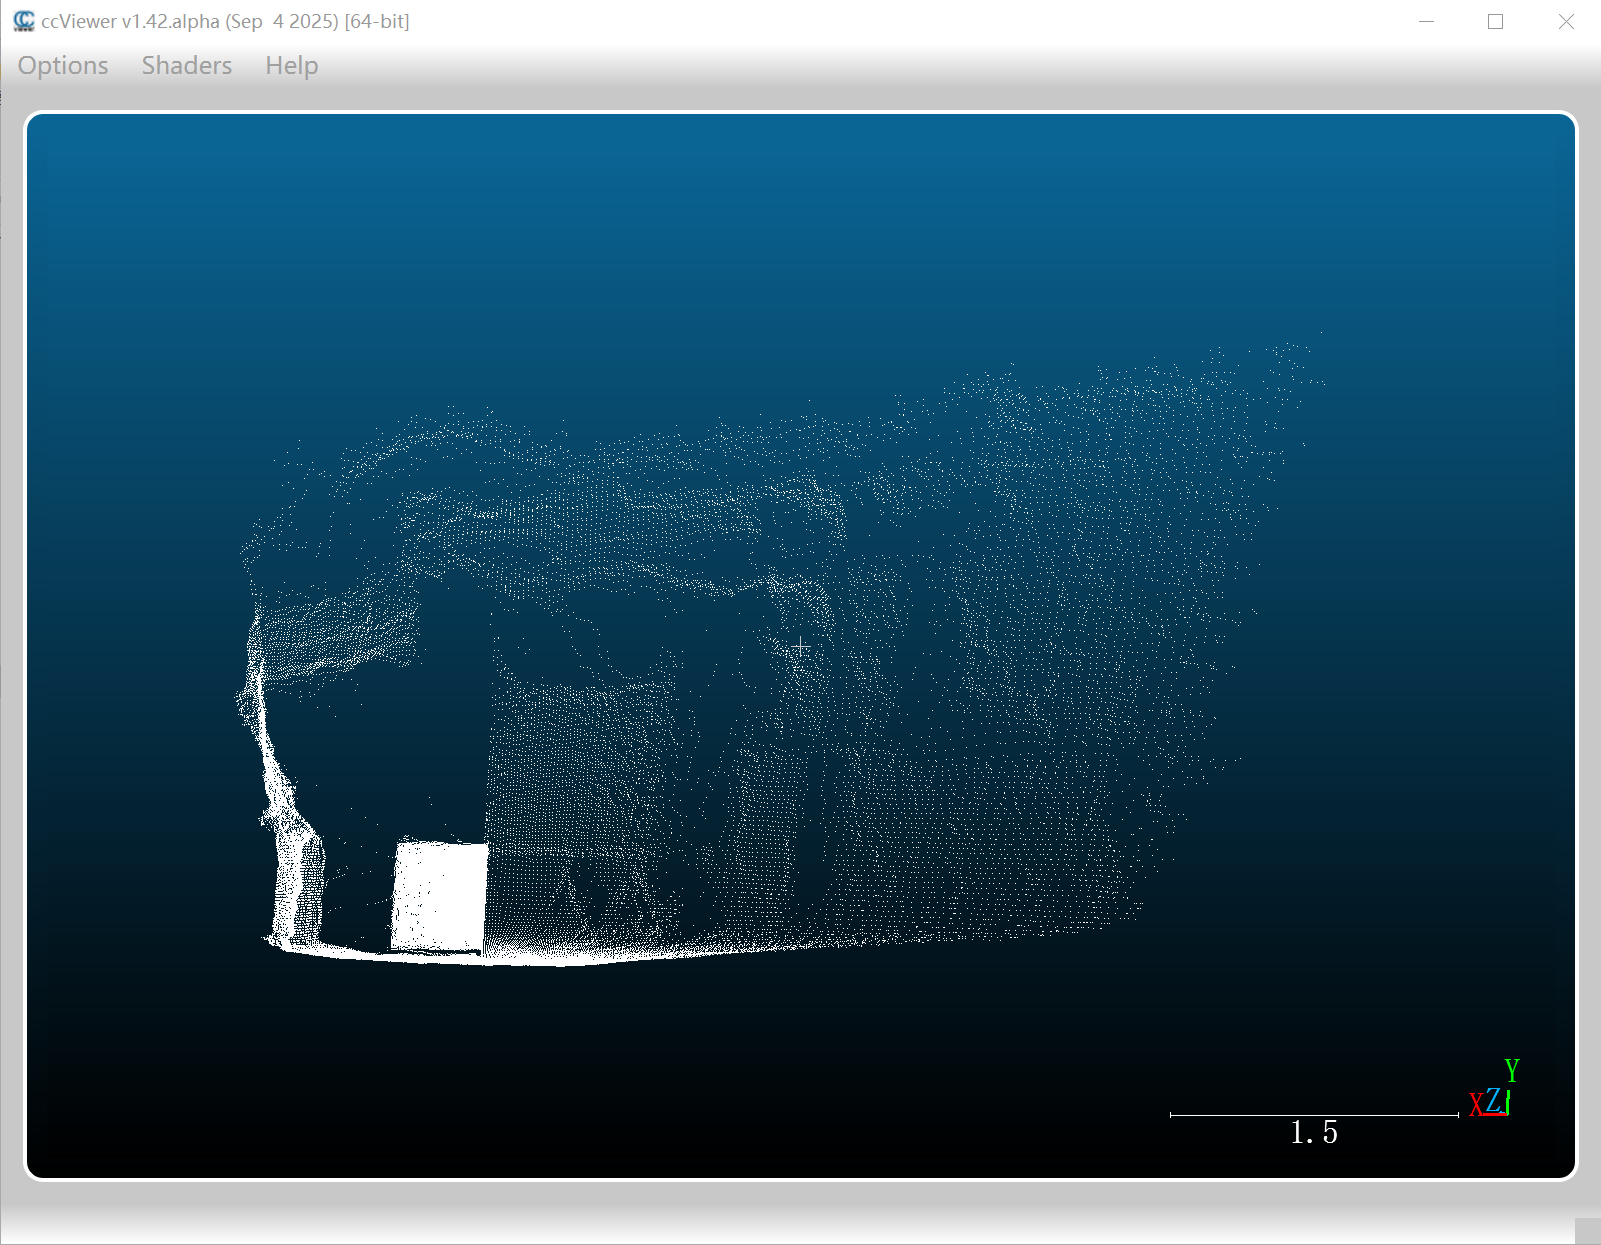
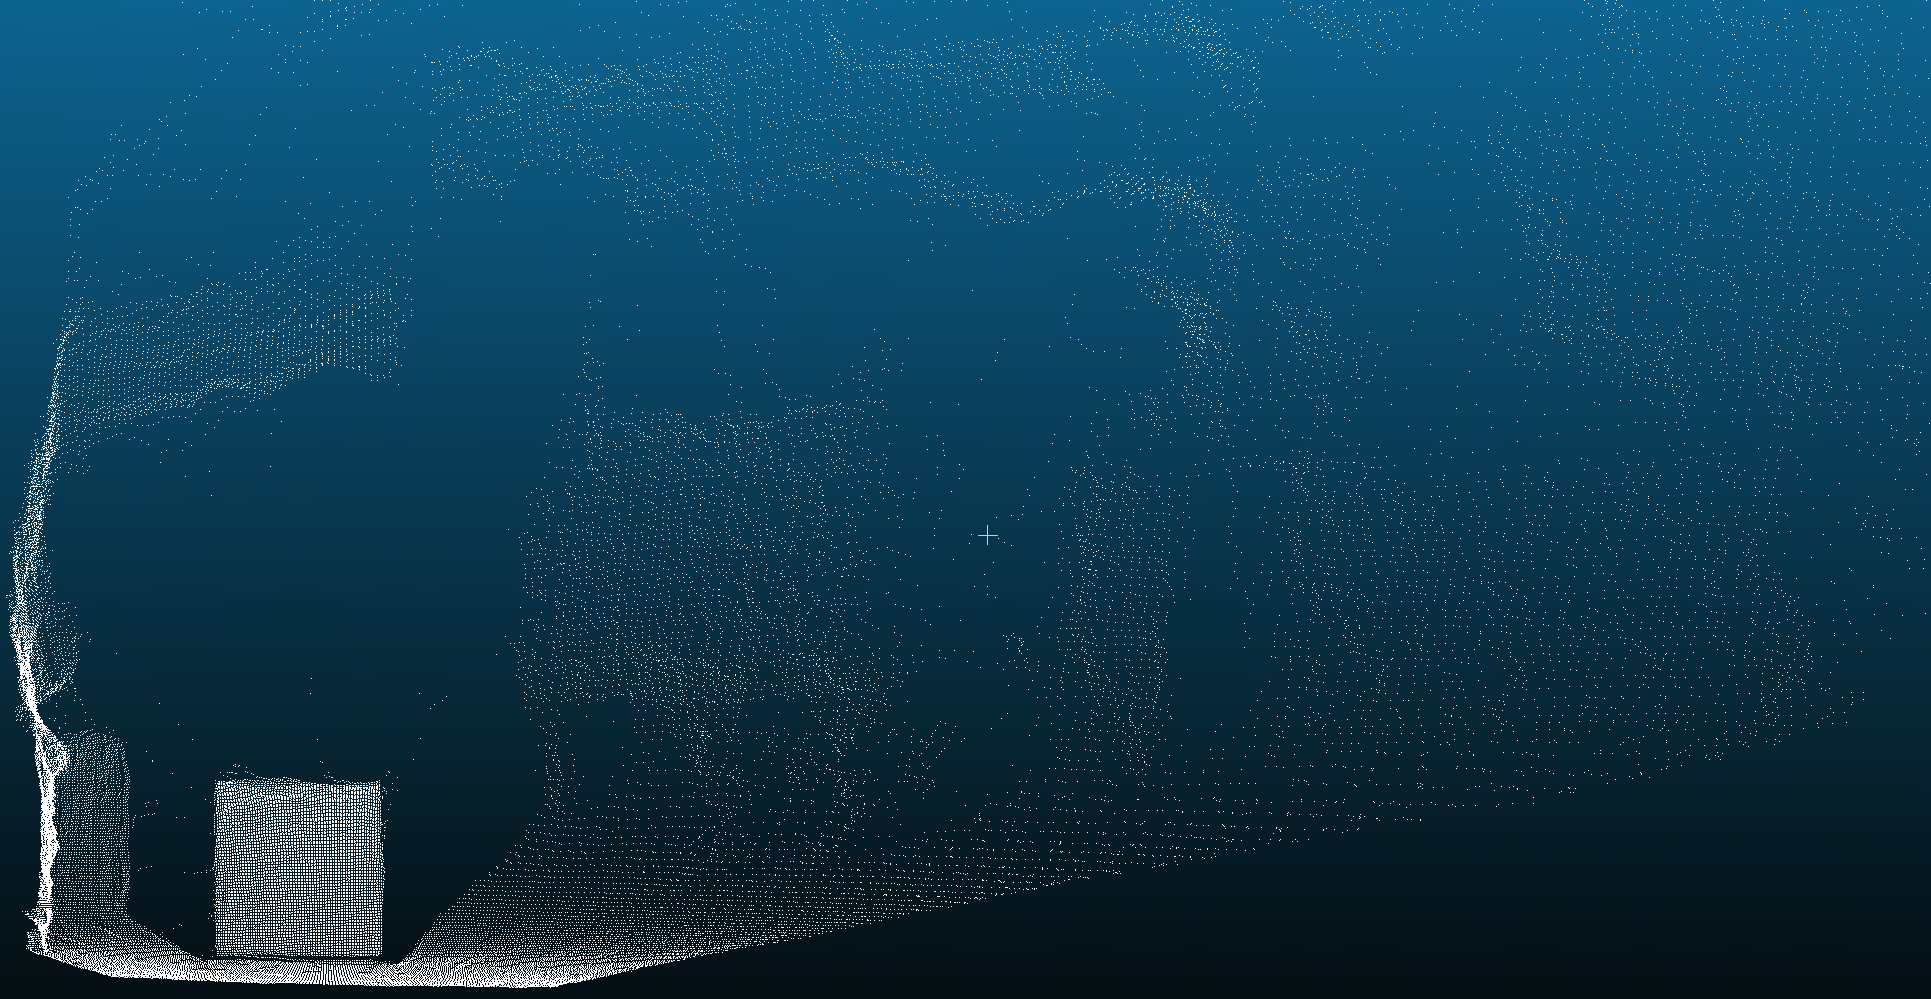
refine README

diff --git a/src/stereonet_process.cpp b/src/stereonet_process.cpp
@@ -345,8 +345,8 @@ int postprocess_v2(std::vector<hbDNNTensor> &tensors,
     }
   } else {
     std::cerr << "=> output tensor type unsupported! tensor[0]: "
-          << tensor_type_to_str(tensors[0].properties.tensorType)
-          << ", tensor[1]: " << tensor_type_to_str(tensors[1].properties.tensorType) << std::endl;
+              << tensor_type_to_str(tensors[0].properties.tensorType)
+              << ", tensor[1]: " << tensor_type_to_str(tensors[1].properties.tensorType) << std::endl;
     return -1;
   }
   // get scale info
@@ -372,7 +372,7 @@ int postprocess_v2_1(std::vector<hbDNNTensor> &tensors,
                      int max_disp,
                      float uncertainty_th) {
   cv::Mat mask, uncert, infer_disp, init_disp;
-  int32_t *disp_shape = tensors[0].properties.validShape.dimensionSize;
+  int32_t *disp_shape = tensors[1].properties.validShape.dimensionSize;
   int32_t c_dim = disp_shape[1];
   int32_t h_dim = disp_shape[2];
   int32_t w_dim = disp_shape[3];
@@ -457,8 +457,8 @@ int postprocess_v2_2(std::vector<hbDNNTensor> &tensors,
     }
   } else {
     std::cerr << "=> output tensor type unsupported! tensor[0]: "
-     << tensor_type_to_str(tensors[0].properties.tensorType)
-     << ", tensor[1]: " << tensor_type_to_str(tensors[1].properties.tensorType) << std::endl;
+              << tensor_type_to_str(tensors[0].properties.tensorType)
+              << ", tensor[1]: " << tensor_type_to_str(tensors[1].properties.tensorType) << std::endl;
     return -1;
   }
   return 0;
@@ -537,7 +537,7 @@ int postprocess_v2_3(std::vector<hbDNNTensor> &tensors,
       }
     }
   } else if (tensors[0].properties.tensorType == HB_DNN_TENSOR_TYPE_F32
-    && tensors[1].properties.tensorType == HB_DNN_TENSOR_TYPE_F32) {
+      && tensors[1].properties.tensorType == HB_DNN_TENSOR_TYPE_F32) {
     float *disp = reinterpret_cast<float *>(TENSOR_SYSMEM(tensors[0], 0).virAddr);
     float *spx = reinterpret_cast<float *>(TENSOR_SYSMEM(tensors[1], 0).virAddr);
 
@@ -585,7 +585,7 @@ int postprocess_v2_3_uncertainty(std::vector<hbDNNTensor> &tensors,
                                  int max_disp,
                                  float uncertainty_th) {
   cv::Mat mask, uncert, infer_disp, init_disp;
-  int32_t *disp_shape = tensors[0].properties.validShape.dimensionSize;
+  int32_t *disp_shape = tensors[1].properties.validShape.dimensionSize;
   int32_t c_dim = disp_shape[1];
   int32_t h_dim = disp_shape[2];
   int32_t w_dim = disp_shape[3];
@@ -594,7 +594,9 @@ int postprocess_v2_3_uncertainty(std::vector<hbDNNTensor> &tensors,
   if (postprocess_v2_3(infer_disp_tensor, infer_points, max_disp) != 0) {
     return -1;
   }
-  if (uncertainty_th > 0.0f && tensors.size() == 4) {
+  if (uncertainty_th > 0.0f && tensors.size() == 4
+      && tensors[2].properties.validShape.dimensionSize[1] == 9
+      && tensors[3].properties.validShape.dimensionSize[1] == 9) {
     std::vector<hbDNNTensor> init_disp_tensor(tensors.begin() + 2, tensors.begin() + 4);
     if (postprocess_v2_3(init_disp_tensor, init_points, max_disp) != 0) {
       return -1;
@@ -604,6 +606,7 @@ int postprocess_v2_3_uncertainty(std::vector<hbDNNTensor> &tensors,
     uncert = cv::abs(init_disp - infer_disp) / init_disp;
     cv::threshold(uncert, mask, uncertainty_th, 1, cv::THRESH_BINARY_INV);
     infer_disp = infer_disp.mul(mask);
+
   }
   points = std::move(infer_points);
   return 0;
@@ -806,6 +809,8 @@ static int32_t release_tensor(std::vector<hbDNNTensor> &output_tensor, int mem_l
   return 0;
 }
 
+//  The `uncertainty_th` ranges from 0.0 to 1.0
+//  — the closer it is to 0.0, the more aggressive the filtering.
 int StereonetProcess::stereonet_init(const std::string &model_file_name,
                                      int max_disp, const std::string &postprocess, float uncertainty_th) {
   postprocess_ = postprocess;
@@ -860,9 +865,8 @@ int StereonetProcess::stereonet_init(const std::string &model_file_name,
   max_disp_ = max_disp;
   HB_CHECK_SUCCESS(hbDNNGetOutputCount(&output_count_, dnn_handle_),
                    "hbDNNGetOutputCount failed");
-
   uncertainty_th_ = uncertainty_th;
-
+  std::cout << "uncertainty_th: " << uncertainty_th_ << std::endl;
   return 0;
 }
 

diff --git a/standalone/main.cpp b/standalone/main.cpp
@@ -102,8 +102,10 @@ int StereoDemo::init(const std::string &stereonet_model_file_path,
                      int max_disp) {
   int ret = 0;
   stereonet_process_ = std::make_shared<StereonetProcess>();
+  //  The `uncertainty_th` ranges from 0.0 to 1.0
+  //  — the closer it is to 0.0, the more aggressive the filtering.
   ret = stereonet_process_->stereonet_init(
-      stereonet_model_file_path, max_disp, post_version, -0.7);
+      stereonet_model_file_path, max_disp, post_version, 0.1);
   if (ret != 0) {
     std::cerr << "stereonet init failed!" << std::endl;
     return -1;
@@ -350,7 +352,7 @@ int main_V2_4(int argc, char **argv) {
 }
 
 
-int main_V2_1(int argc, char **argv) {
+int main_V2_4_uncertainty(int argc, char **argv) {
   int ret;
   float blind_area;
   int print_count = 0;
@@ -432,5 +434,5 @@ int main_V2_1(int argc, char **argv) {
 }
 
 int main(int argc, char **argv) {
-  return main_V2_1(argc, argv);
+  return main_V2_4_uncertainty(argc, argv);
 }

diff --git a/standalone/README.md b/standalone/README.md
@@ -65,8 +65,9 @@ export LD_LIBRARY_PATH=${LD_LIBRARY_PATH}:/userdata/StereoInfer/3rdparty/lib_ope
 ```
 
 After execution, you can check the console log output for the program's `fps`, `latency`, `cpu_usage`, `bpu_usage`.
-
 This information is also recorded in `performance_xx.txt` in the current directory.  
+
+![console_log_performance](img/console_log_performance.png)
 
 We have two types of models currently: one includes uncertainty information, while the other does not. 
 Comparing the results below, we can see that the noise can be filtered out using the uncertainty.
@@ -75,10 +76,10 @@ The following files will be generated in the `result` directory:
 
   |Name                   |          without uncertainty Result    |          with uncertainty Result                 |                      Description |
   |----------|------|------|------|
-  |{timestamp}_depth.png  |         ![depth](img/8777028645726_depth.png)    |   |     Depth map aligned with the left image (unit: mm) |
-  |{timestamp}_disparity.pfm |      ![disparity](img/8777028645726_disparity.png) | |  Disparity map aligned with the left image (unit:pixels) |
-  |{timestamp}_visual.jpg    |      ![visual](img/8777028645726_visual.jpg) |        | Top: left image; Bottom: depth pseudo-color image. <br> Color gradient red → yellow → green → blue indicates distance from near to far. Numbers show grid point depths |
-  |{timestamp}.pcd  |               ![pcd](img/8777028645726_pcd.png)    |        |    3D point cloud generated from the left image |
+  |{timestamp}_depth.png  |         ![depth](img/8777028645726_depth.png)    |  None |     Depth map aligned with the left image (unit: mm) |
+  |{timestamp}_disparity.pfm |      ![disparity](img/8777028645726_disparity.png) |None |  Disparity map aligned with the left image (unit:pixels) |
+  |{timestamp}_visual.jpg    |      ![visual](img/8777028645726_visual.jpg) |    ![visual](img/23859795172752_visual.jpg)    | Top: left image; Bottom: depth pseudo-color image. <br> Color gradient red → yellow → green → blue indicates distance from near to far. Numbers show grid point depths |
+  |{timestamp}.pcd  |               ![pcd](img/8777028645726_pcd.png)    |   ![pcd](img/23859795172752_pcd.png)     |    3D point cloud generated from the left image |
 -   Disparity maps, depth maps, and visualization images: It is
     recommended to use
     [cvkit](https://github.com/roboception/cvkit/releases/tag/v2.6.10)
